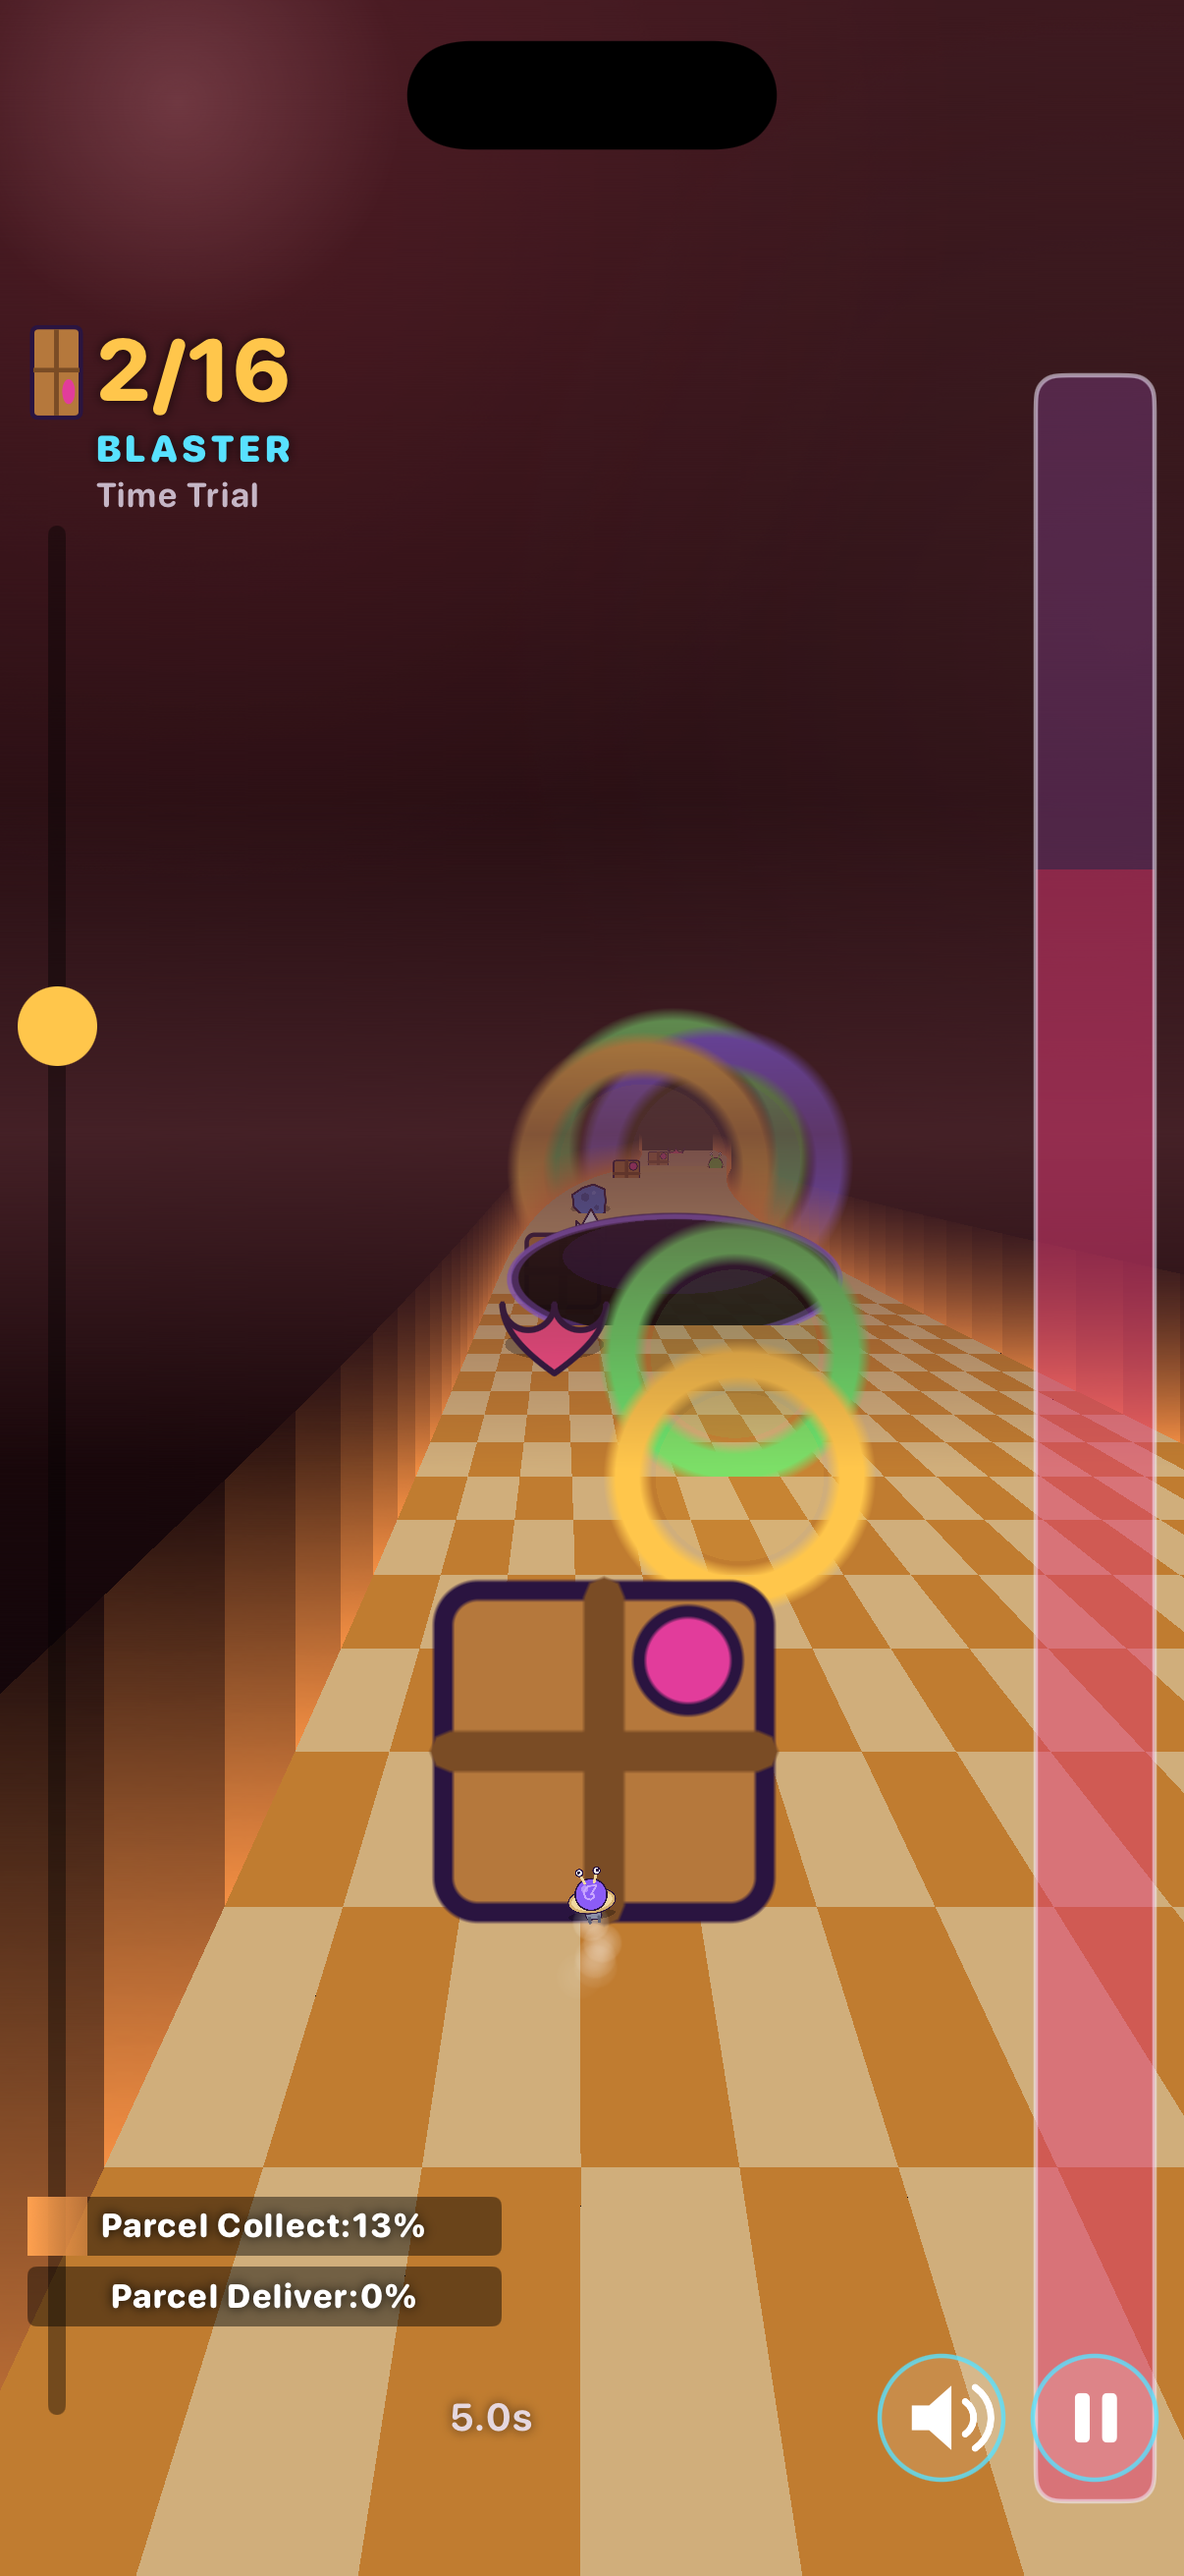
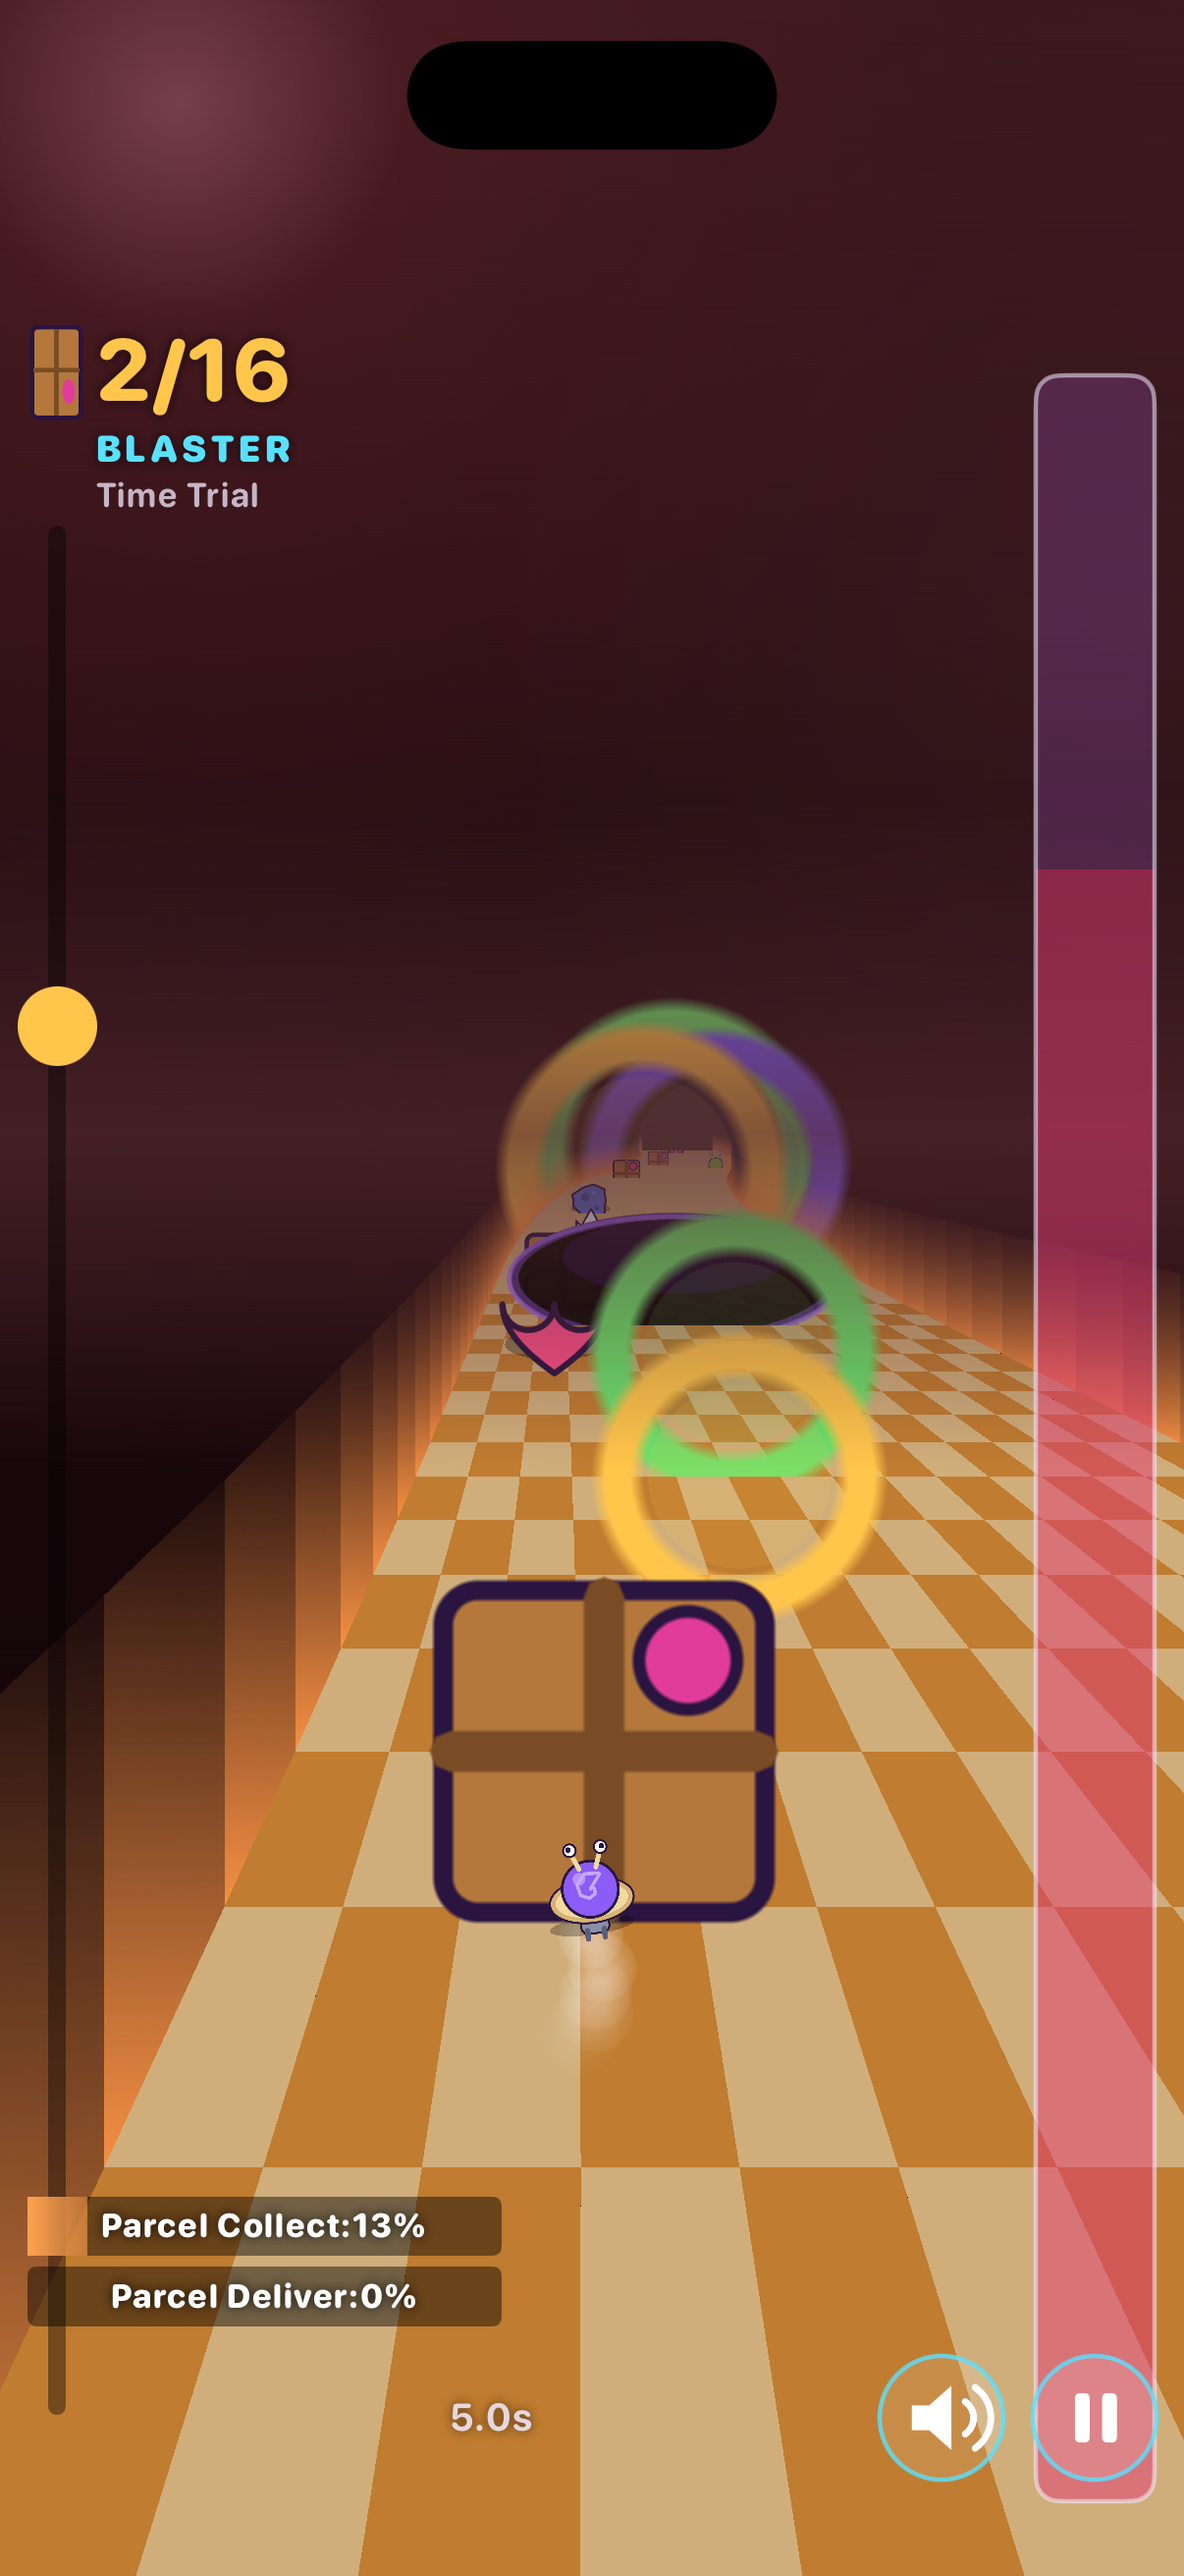
size Turbo off the phone rather than off the retail frame
Sizing him at the retail captures' fifth of the frame reads too small on a
portrait phone. Those captures are 640 columns across and 480 tall, so a snail
spanning 32 of them is a fifteenth of the width of a landscape display; the
same share of a 402-point-wide phone comes out at 20 points, and the creature
the scene actually paints measured 15 points across, about a twenty-sixth of
the frame.

He is now sized so the creature comes out about 28 points, a fourteenth of the
frame and two thirds of the share the `turbo-base` mesh would give him against
a highway the 9 units across the road is. Measured off the rendered frames, the
purple of his shell went from 9.7 points across to 18, and the whole creature
from 15 points to 27.

The gameplay screenshots are refreshed.

Changed region(s): [[0.3988, 0.3707, 0.767, 0.6487], [0.4602, 0.7105, 0.5522, 0.8032]]

diff --git a/SnailMail/Sources/Game/GameScene.swift b/SnailMail/Sources/Game/GameScene.swift
@@ -67,22 +67,20 @@ final class GameScene: SKScene {
     /// stretch him on a tall portrait phone, where the near highway runs off
     /// both edges.
     ///
-    /// Taken straight off that mesh, though, he covers 6.7% of the road and
-    /// reads half again as wide as the build's own screenshots show him. Two
-    /// things push him out. The baked frames hang his eye stalks and the gear
-    /// bolted to his shell outside the mesh box, so sizing the mesh fills the
-    /// share with his shell alone; and on the portrait frame the road at his
-    /// row is wider than the screen, so the same share covers more of the
-    /// view. The retail captures put the whole creature — shell, stalks and
-    /// gear — at about a twentieth of the frame across (`ma_5` of the screen
-    /// set, where he spans 32 of the 640 columns, and the road there already
-    /// runs off both edges as it does here). How far the road runs past the
-    /// edges is what the share has to be discounted by. With the camera at
+    /// Taken straight off that mesh he would cover 6.7% of the road, which on
+    /// this frame is a tenth of the width of the display — the share the build
+    /// gives a highway nine units across means him to be read at the distance
+    /// the camera stands, not blown up to fill a phone.
+    ///
+    /// The share here is set so the creature comes out about 28 points across,
+    /// a fourteenth of the portrait frame and comfortably legible on a phone,
+    /// which is two thirds of the mesh's own share: with the camera at
     /// `cameraHeight` his row sits 0.30 of the height below the horizon, so the
-    /// road under him is 1.61 screens across and the mesh's share of it is cut
-    /// to about a third, which leaves him a twentieth of the frame.
+    /// road under him is 1.61 screens across and 6.7% of it is 44 points.
+    /// Sizing him at a fixed fraction of the screen instead would stretch him
+    /// on a tall portrait phone, where the near highway runs off both edges.
     private let snailRoadFraction: CGFloat =
-        Sprites.snailModelWidth / roadModelWidth * 0.36
+        Sprites.snailModelWidth / roadModelWidth * 0.64
     /// Turbo's own width, in points, at the snapshot's screen scale.
     private var snailScale: CGFloat = 1
     /// Half the highway's on-screen width on Turbo's row, refreshed by
